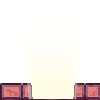
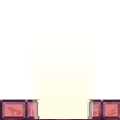
updated art assets to reduce unintended collisions. added asynchronous timer to detect when action service should be empty so that I do not have to push empty actions to get second player to stop moving. encountered bug where sometimes one player has collisions in all directions without there being 

Changed region(s): [[0.0, 0.81, 1.0, 1.0], [0.87, 0.96, 0.99, 0.99], [0.0, 0.96, 0.06, 0.99]]

diff --git a/app/assets/javascripts/games/cell.js b/app/assets/javascripts/games/cell.js
@@ -16,10 +16,10 @@ function Cell_initialize(row, column, name, grid, count) {
   Container.prototype.initialize.apply(this, arguments);
   this.row = row;
   this.column = column;
-  this.width = 100;
-  this.height = 100;
-  this.x = column * 100; 
-  this.y = row * 100;
+  this.width = 120;
+  this.height = 120;
+  this.x = column * 120; 
+  this.y = row * 120;
   this.name = name;
   this.visited = false;
   this.linklist = [];

diff --git a/app/assets/javascripts/application.js b/app/assets/javascripts/application.js
@@ -24,7 +24,6 @@
 //= require easeljs-0.8.1.min
 //= require preloadjs-0.6.1.min
 //= require ndgmr.Collision.js
-//= require ./games/win.js
 //= require ./games/create_subclass.js
 //= require ./games/actions.js
 //= require ./games/hero.js

diff --git a/app/controllers/profiles_controller.rb b/app/controllers/profiles_controller.rb
@@ -1,7 +1,7 @@
 class ProfilesController < ApplicationController
 
   def show
-
+    @player = Player.find_by(params[:id])
   end
 
 end
